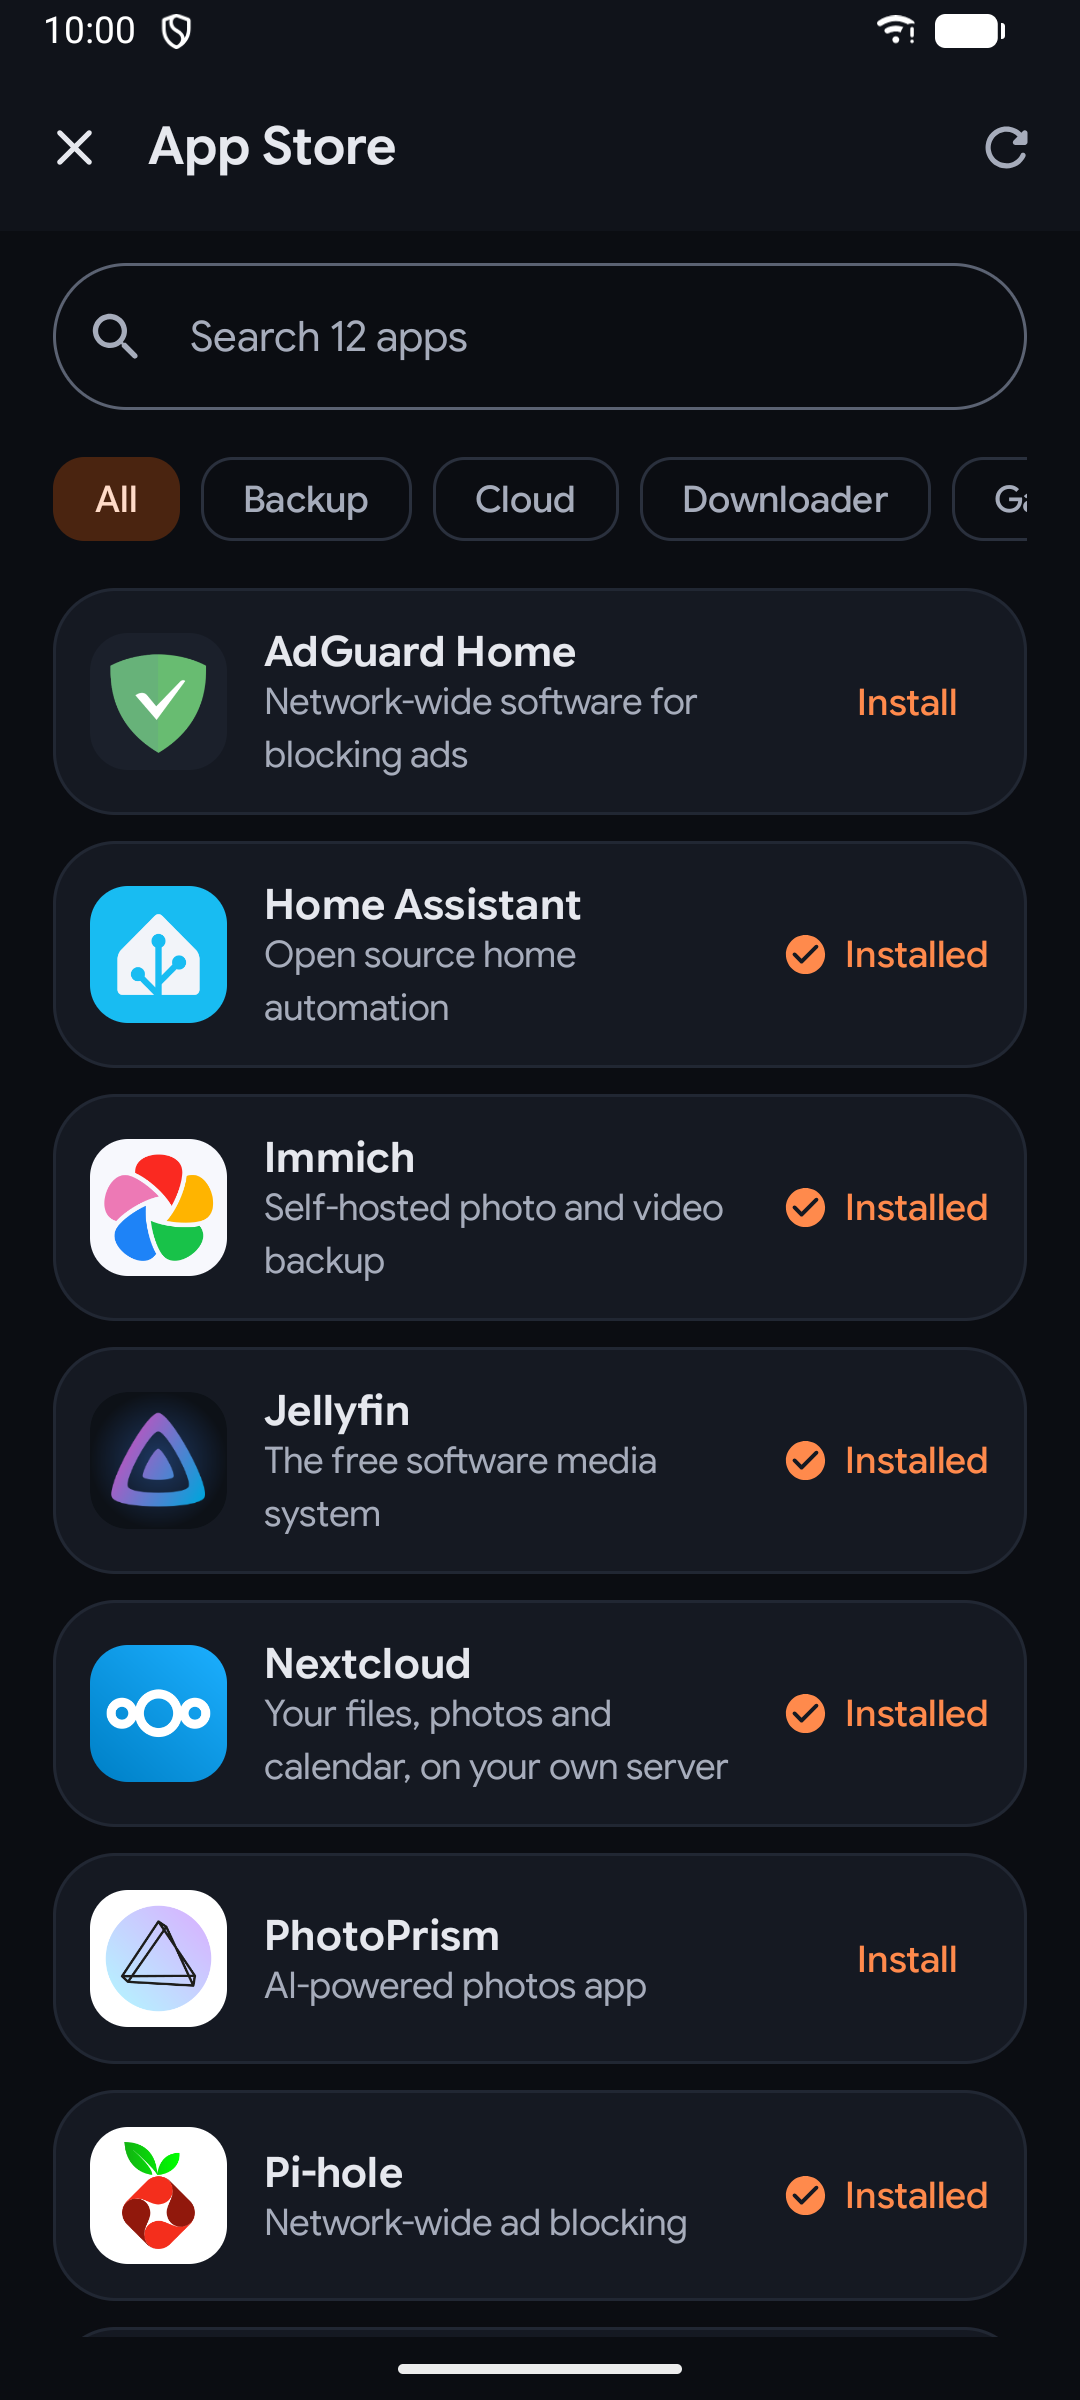
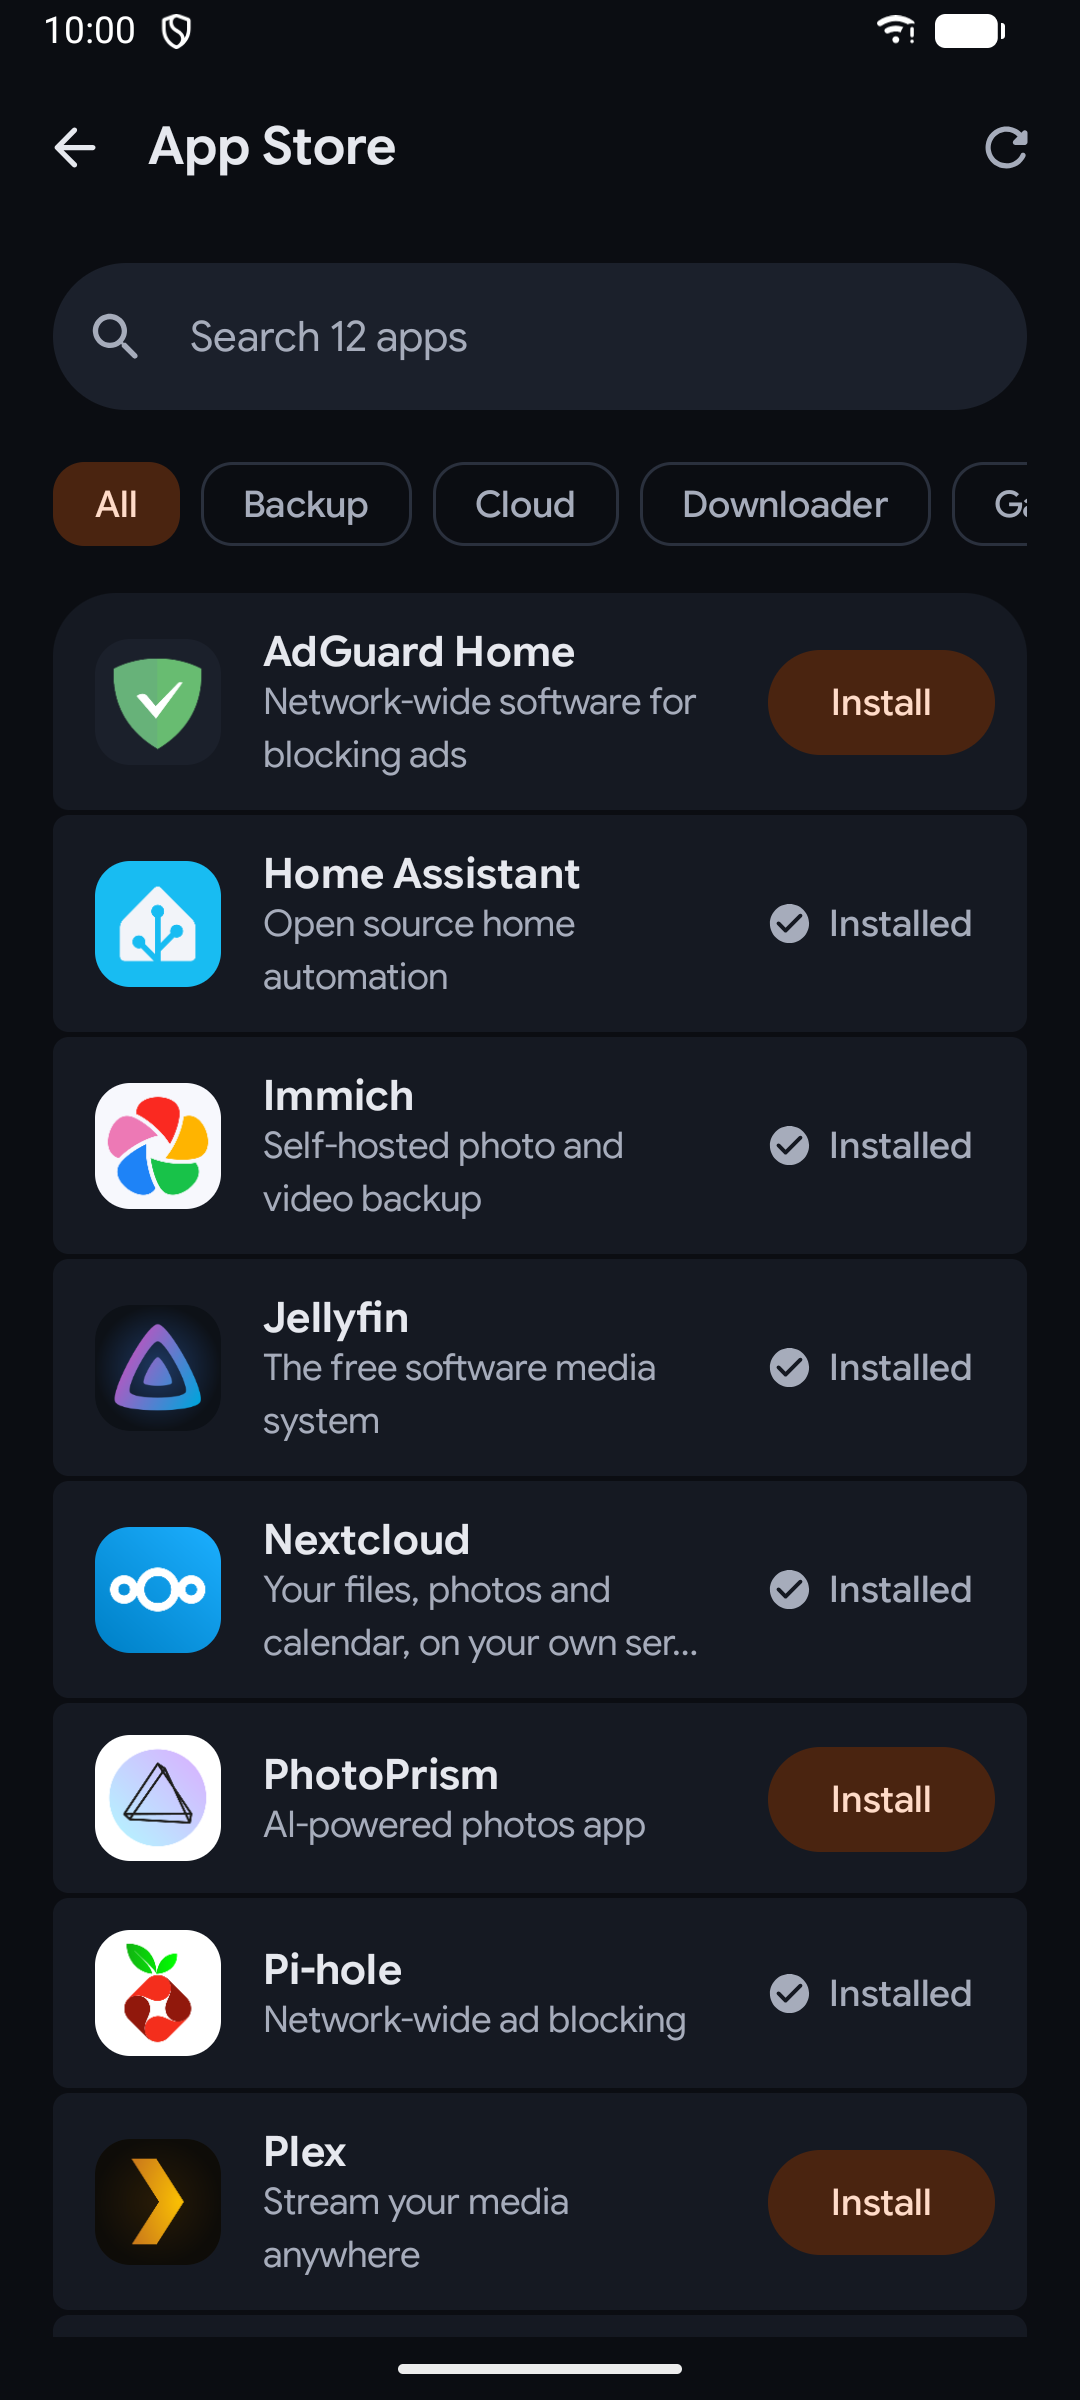
Refresh screenshots for the new design (#45)
New README images (tour, more, themes, tablet) and F-Droid store screenshots (10 phone at 1080x2400, 1 tablet at 1920x1200), taken in the same order with the same demo data as before. The docs mention Home's online dot and where an app's Settings now sits.

diff --git a/docs/how-it-works.md b/docs/how-it-works.md
@@ -22,6 +22,7 @@ Hearth runs on Android 10 or later, phones and tablets.
 ### Home
 
 - Live CPU, memory and storage gauges, CPU history and network throughput. They update every 2.5 s, and only while the screen is visible.
+- The dot beside the server name is green while the server answers and red when it can't be reached. Tap the name to switch servers.
 - The **Storage** card lists each drive: its model, type (HDD, SSD or USB), size and temperature, whether its SMART self-check passes, and how full each of its volumes is. It refreshes every minute, since CasaOS checks every drive to answer. CasaOS reports a drive it can't check (for example when `smartctl` isn't installed) as passing, so "Healthy" means no failure was reported. USB drives and the system drive have no health badge. On servers without this information, Home shows the storage total instead.
 - The **Apps** card shows CPU and memory per app, busiest first, sorted by CPU or memory. CasaOS only reports whole-server totals, so this card reads `docker stats` over SSH. It needs you to sign in once on the Terminal tab with **Remember password** on. If your account isn't in the `docker` group, it runs the command with `sudo`. While the card is collapsed, Hearth doesn't poll it and closes its SSH connection.
 
@@ -30,7 +31,7 @@ Hearth runs on Android 10 or later, phones and tablets.
 - Lists installed apps with their status. Stopped apps are grayed out. Each app can be started, stopped or restarted, and you can open its web UI or view its logs. Search filters the list. Apps with several containers get a chip per container.
 - **Logs** opens an app's container logs full screen. They update every 3 seconds while the page is open (pause to read), and reach back 500, 2,000 or 10,000 lines. Search shows only the lines that match. Copy puts them on the clipboard (the newest 300,000 characters if there are more), and Share sends them as a text file. Terminal color codes are removed.
 - **Open:** the app's web UI opens inside Hearth or in your browser, depending on the choice in Settings.
-- **Settings** (next to Logs) shows the same container settings as the CasaOS dashboard: image and tag, name, icon, web UI address, network, ports, volumes, environment variables, devices, command, privileged mode, memory limit, CPU shares, restart policy and capabilities. Passwords stay hidden until you tap them. The pencil edits these settings in a form, and **Edit as YAML** in the menu edits the whole compose file. CasaOS checks your changes before saving (including ports already in use), then restarts the app with them.
+- **Settings** (below Logs in an app's details) shows the same container settings as the CasaOS dashboard: image and tag, name, icon, web UI address, network, ports, volumes, environment variables, devices, command, privileged mode, memory limit, CPU shares, restart policy and capabilities. Passwords stay hidden until you tap them. The pencil edits these settings in a form, and **Edit as YAML** in the menu edits the whole compose file. CasaOS checks your changes before saving (including ports already in use), then restarts the app with them.
 - **Version** shows which image tag the app runs and lists the tags its image has, newest first. Docker Hub tags also show dates and sizes. Search finds older tags, or you can type any tag. Tap one to switch the app to it.
 - **Update:** when CasaOS has an update for a store app, the row is highlighted and **Update** installs the version the App Store ships.
 - **Uninstall** is at the bottom of an app's details and in its long-press menu. You choose whether its data in `/DATA/AppData` is deleted too.
